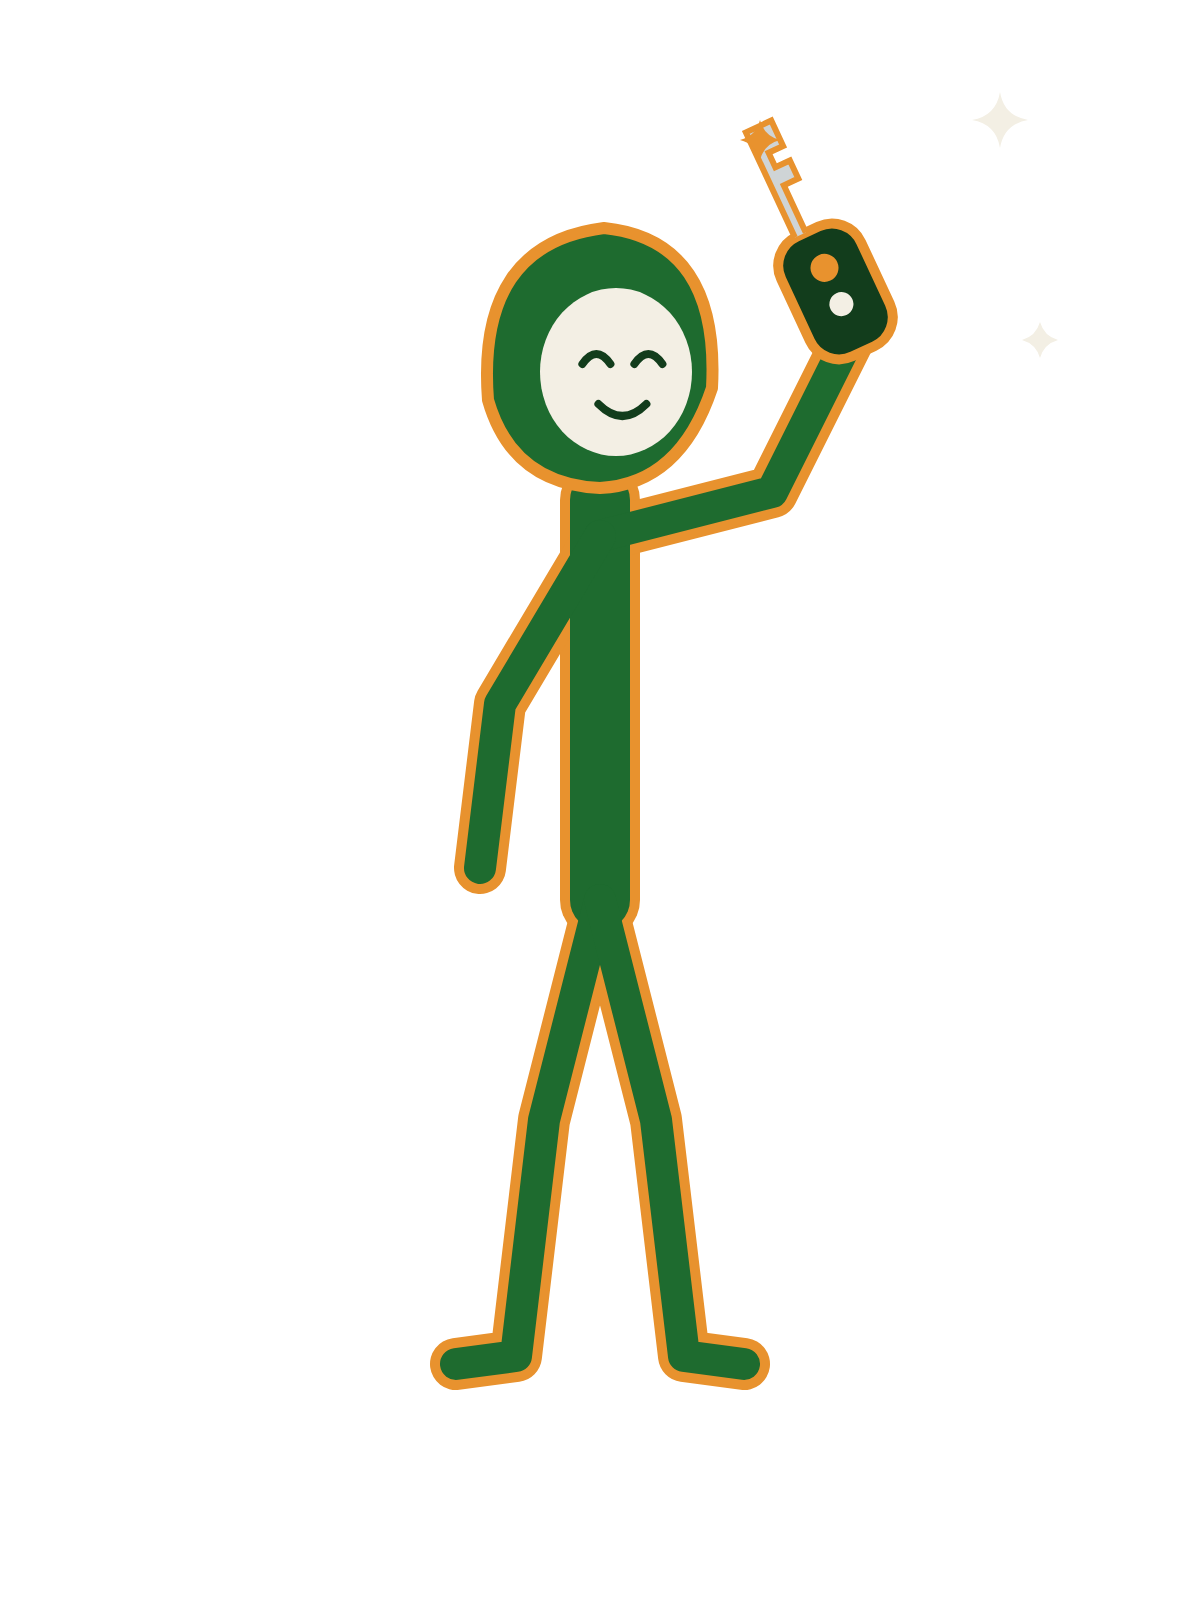
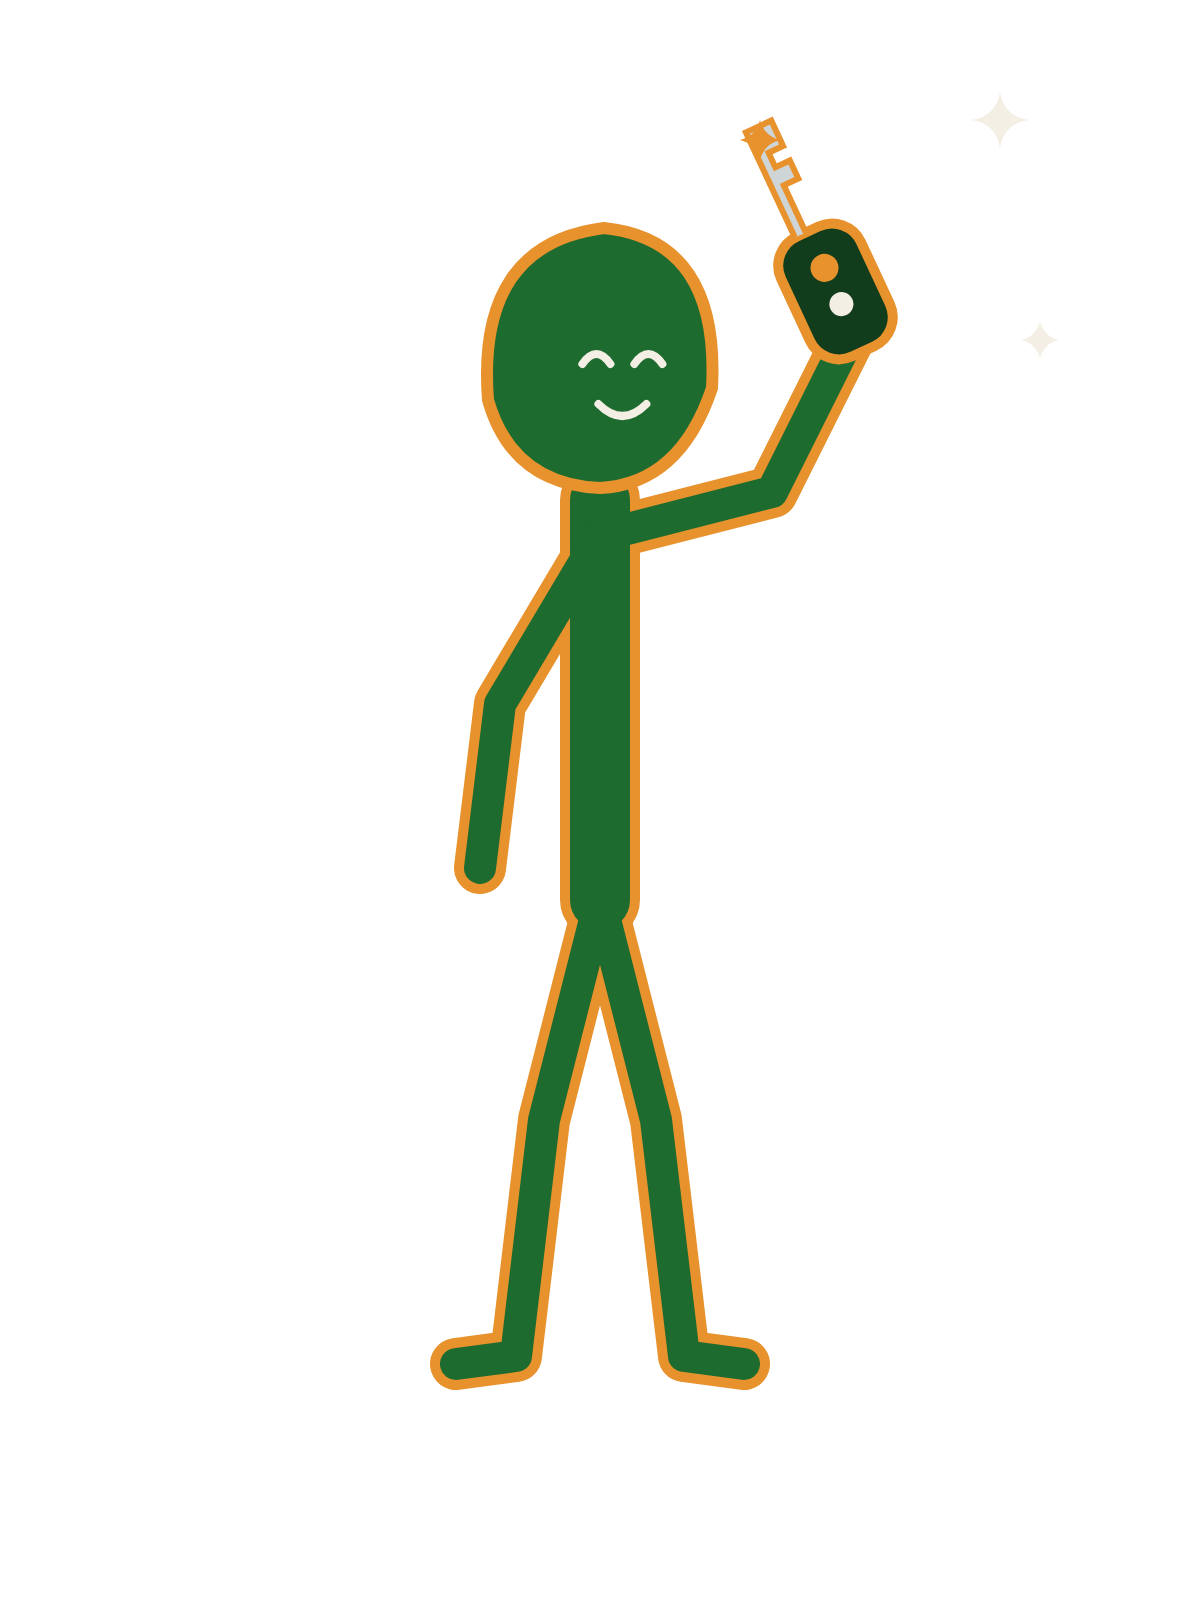
Apply face style B (features on green head) to all stickman poses
Claude-Session: https://claude.ai/code/session_01MNZc9ySQF9u7kcacVr9AHr

Changed region(s): [[0.4317, 0.1562, 0.5858, 0.3125]]

diff --git a/stickman/gen.py b/stickman/gen.py
@@ -5,7 +5,7 @@ W, H = 600, 800
 
 def pl(pts): return " ".join(f"{x},{y}" for x, y in pts)
 
-FACE = os.environ.get("FACE", "A")
+FACE = os.environ.get("FACE", "B")
 FACES = {  # face fill, face outline, feature colour
     "A": ("#0a1a0e", None, "#f3efe4"),   # dark hood opening, cream features
     "B": (None, None, "#f3efe4"),        # no opening: features straight on green
